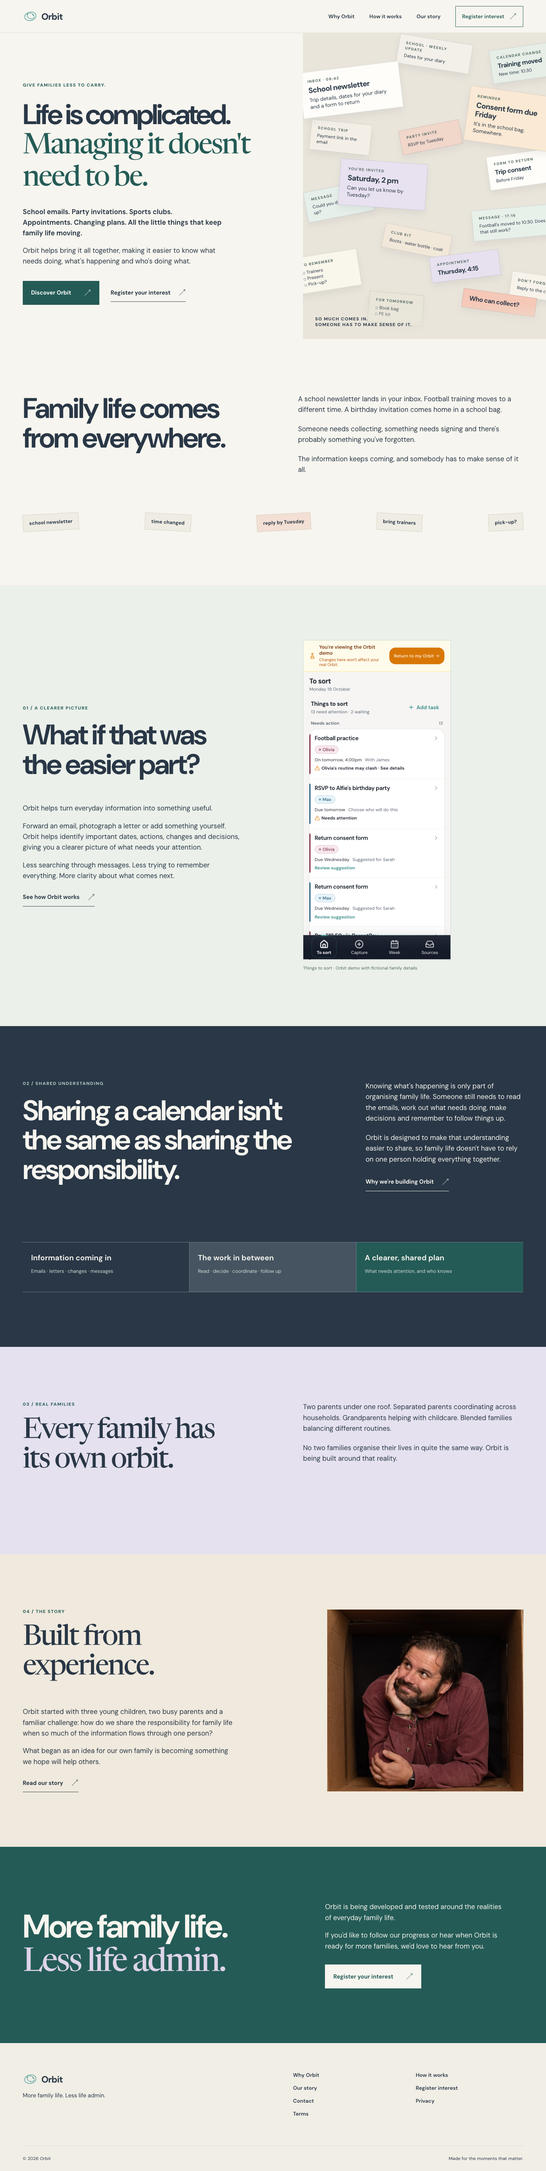
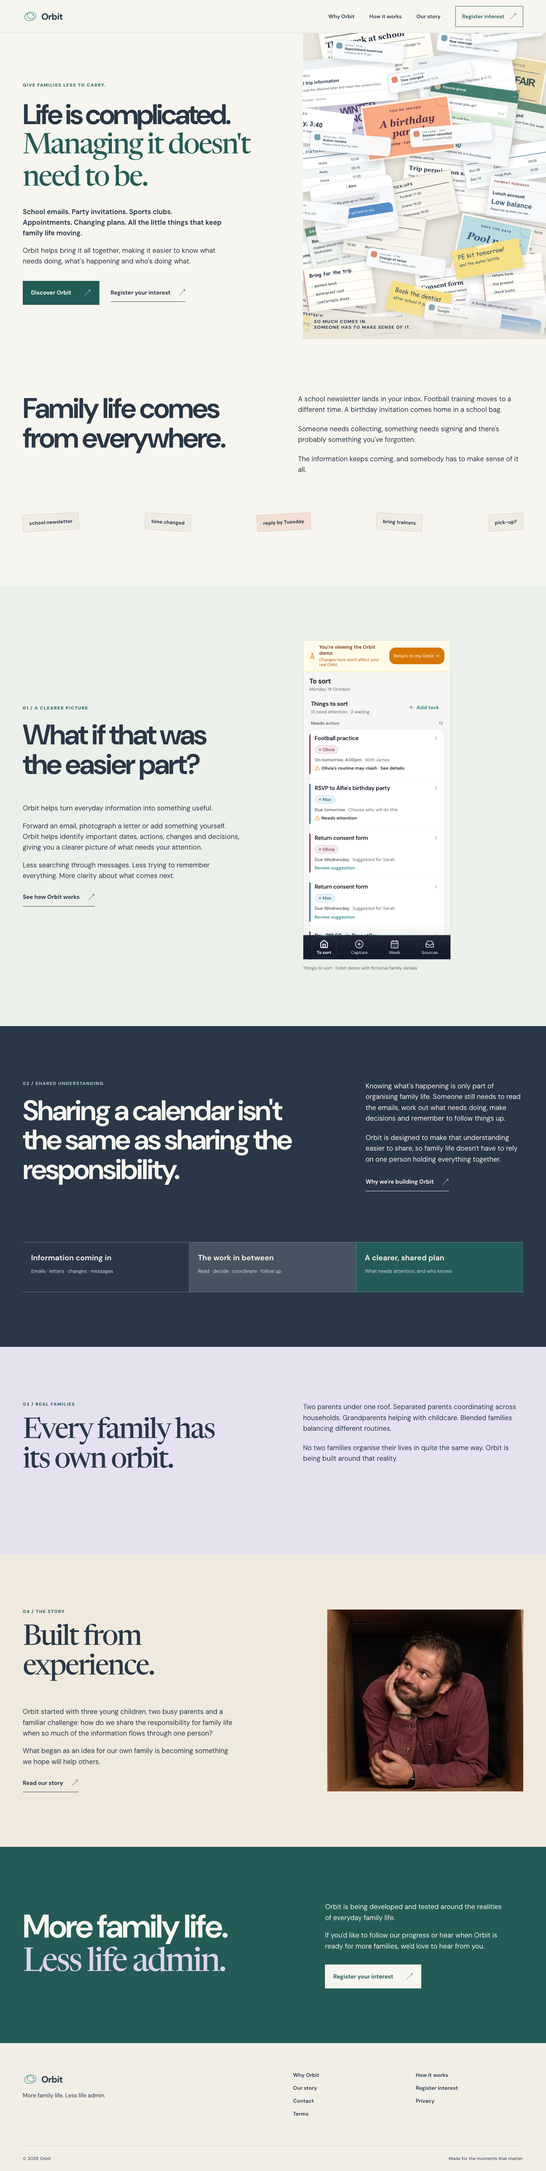
Refine homepage information collage

Changed region(s): [[0.5312, 0.0, 1.0, 0.1556]]

diff --git a/src/styles.css b/src/styles.css
@@ -1,58 +1,27 @@
 @font-face{font-family:'DM Sans';src:url('./fonts/dm-sans.woff2') format('woff2');font-style:normal;font-weight:100 900;font-display:swap}
 @font-face{font-family:Newsreader;src:url('./fonts/newsreader.ttf') format('truetype');font-style:normal;font-weight:200 900;font-display:swap}
 :root{--ivory:#F7F5EF;--teal:#245B56;--lavender:#CEC8E3;--coral:#E38D77;--ink:#293746;--cream:#FFFDF8;--line:#D9DBD4;--max:1320px;--font-body:'DM Sans',Arial,sans-serif;--font-display:Newsreader,Georgia,serif;--heading-sans-weight:650;--heading-editorial-weight:460;--heading-tracking:-.045em;--heading-editorial-tracking:-.05em}
-*{box-sizing:border-box}html{scroll-behavior:smooth}body{margin:0;background:var(--ivory);color:var(--ink);font-family:var(--font-body);-webkit-font-smoothing:antialiased}a{color:inherit;text-decoration:none}button{font:inherit}img{display:block;max-width:100%;height:auto}svg{display:block}p{line-height:1.58}h1,h2,h3,p{margin-top:0}h1,h2,h3{letter-spacing:var(--heading-tracking)}h1{font-weight:var(--heading-sans-weight)}h2{font-weight:600}.heading-sans,.heading-mixed{font-family:var(--font-body);font-weight:var(--heading-sans-weight)}.heading-editorial{font-family:var(--font-display);font-weight:var(--heading-editorial-weight);letter-spacing:var(--heading-editorial-tracking)}.heading-mixed em{font-family:var(--font-display);font-style:normal;font-weight:var(--heading-editorial-weight);letter-spacing:var(--heading-editorial-tracking)}.wrap{width:min(calc(100% - 96px),var(--max));margin-inline:auto}.skip-link{position:absolute;left:12px;top:-60px;z-index:100;background:var(--ink);color:white;padding:12px 18px}.skip-link:focus{top:12px}:focus-visible{outline:3px solid var(--coral);outline-offset:4px}a,button{touch-action:manipulation}.site-header{position:relative;z-index:20;background:var(--ivory);border-bottom:1px solid rgba(41,55,70,.12)}.nav-shell{min-height:86px;display:flex;align-items:center;justify-content:space-between;gap:24px}.brand{display:inline-flex;align-items:center;gap:9px;font-size:24px;font-weight:700;letter-spacing:-.04em;color:var(--ink);white-space:nowrap}.brand svg{width:40px;height:40px;color:#2F8E88}.brand ellipse{fill:none;stroke:currentColor;stroke-width:3.2}.brand ellipse:nth-child(2){stroke-width:2.6}.brand circle{fill:currentColor}.desktop-nav{display:flex;align-items:center;gap:clamp(18px,2.7vw,42px);font-size:14px;font-weight:600}.desktop-nav a:not(.nav-register){padding:12px 0}.desktop-nav a:hover,.site-footer nav a:hover,.text-link:hover{color:var(--teal)}.desktop-nav a[aria-current=page],.mobile-menu a[aria-current=page]{text-decoration:underline;text-decoration-thickness:2px;text-underline-offset:7px}.nav-register{display:inline-flex;align-items:center;gap:14px;border:1px solid var(--teal);padding:13px 17px;color:var(--teal);white-space:nowrap}.nav-register:hover{background:var(--teal);color:white}.menu-toggle{display:none;background:none;border:0;color:var(--ink);min-height:48px;padding:8px;cursor:pointer}.menu-lines{display:grid;gap:5px}.menu-lines i{display:block;width:22px;height:1.5px;background:currentColor}.mobile-menu[hidden]{display:none}.mobile-menu{display:none}.kicker,.section-index{font-size:12px;line-height:1.3;font-weight:750;letter-spacing:.12em;text-transform:uppercase}.kicker{color:var(--teal);margin-bottom:32px}.section-index{color:var(--teal);margin-bottom:24px}.hero{min-height:730px;display:grid;grid-template-columns:minmax(0,1.1fr) minmax(0,.9fr);align-items:stretch;gap:2vw}.hero-copy{padding:clamp(76px,9vw,136px) 0 90px;position:relative;z-index:2}.hero h1{font-size:clamp(57px,5.2vw,84px);line-height:1.025;max-width:890px;margin-bottom:35px;letter-spacing:-.065em}.hero h1 span{white-space:nowrap}.hero h1 em{color:var(--teal)}.hero-copy>p:not(.kicker){max-width:525px;font-size:18px;line-height:1.55}.hero-copy .hero-lead{font-weight:650}.actions{display:flex;align-items:center;gap:30px;flex-wrap:wrap;margin-top:37px}.button{display:inline-flex;justify-content:space-between;align-items:center;gap:34px;background:var(--teal);color:white;padding:18px 22px;min-height:56px;font-size:15px;font-weight:700;transition:background .2s ease}.button:hover{background:#194641;color:white}.text-link{display:inline-flex;align-items:center;gap:22px;padding-block:10px;border-bottom:1px solid currentColor;font-size:15px;font-weight:700;min-height:44px}.button span,.text-link span,.nav-register span{font-size:18px;font-weight:400}.hero-art{position:relative;min-height:650px;margin-right:calc((min(100vw - 96px,var(--max)) - 100vw)/2);background:#EAE5DB;overflow:hidden}.hero-art:after{content:'';position:absolute;inset:auto 0 0;height:95px;background:linear-gradient(transparent,#EAE5DB);pointer-events:none}.fragments{position:absolute;inset:0;isolation:isolate}.fragment{position:absolute;display:flex;flex-direction:column;gap:8px;padding:20px 22px;background:#FFFDF9;color:var(--ink);border:1px solid rgba(41,55,70,.16);box-shadow:0 14px 22px rgba(41,55,70,.08);font-size:15px;line-height:1.35}.fragment strong{font-size:20px;line-height:1.15;letter-spacing:-.04em}.fragment small{font-size:10px;font-weight:750;letter-spacing:.14em;color:#526762}.hero-art-caption{position:absolute;bottom:30px;left:32px;z-index:7;color:var(--ink);font-size:12px;line-height:1.25;font-weight:700;text-transform:uppercase;letter-spacing:.1em}.section{padding-block:clamp(95px,10vw,160px)}.section-ivory{background:var(--ivory)}.section-calm{background:#EBF0EA}.section-ink{background:var(--ink);color:#F7F5EF}.section-lavender{background:#E5E1EF}.editorial-grid,.reading-grid{display:grid;grid-template-columns:1fr 1fr;gap:10%;align-items:start}.section h2{font-size:clamp(46px,5.2vw,78px);line-height:1.04}.prose{font-size:18px;max-width:650px}.prose p{margin-bottom:22px}.fragment-line{display:flex;justify-content:space-between;gap:10px;flex-wrap:wrap;margin-top:80px}.fragment-line span{font-size:13px;font-weight:700;background:#EFECE3;border:1px solid #D6D2C7;padding:13px 16px;transform:rotate(-3deg)}.fragment-line span:nth-child(even){transform:rotate(3deg)}.fragment-line span:nth-child(3){background:#F3DFD4}.calm-grid{display:grid;grid-template-columns:1fr 1fr;gap:12%;align-items:center}.calm-copy{max-width:600px}.calm-copy>p:not(.section-index){font-size:18px;line-height:1.58}.product-slot{min-height:470px;background:#F7F5EF;border:1px dashed #8EADA4;display:flex;flex-direction:column;align-items:center;justify-content:center;text-align:center;padding:50px;max-width:480px;margin-inline:auto;color:#476861}.product-slot .slot-mark{font-size:80px;font-family:Newsreader;line-height:1;color:var(--teal)}.product-slot span{font-weight:750;font-size:19px}.product-slot p{max-width:260px;font-size:14px;margin-top:15px}.responsibility-grid{display:grid;grid-template-columns:1.3fr .7fr;gap:10%}.section-ink .section-index{color:#B6CFC7}.section-ink .text-link:hover{color:#D9CDEB}.responsibility-visual{display:grid;grid-template-columns:1fr 1fr 1fr;gap:0;margin-top:90px;border-top:1px solid #71818A;border-bottom:1px solid #71818A}.responsibility-visual>div{padding:28px 22px 30px;min-height:130px;font-size:20px;line-height:1.2;font-weight:650}.responsibility-visual>div:not(:last-child){border-right:1px solid #71818A}.responsibility-visual span{display:block;font-size:13px;font-weight:400;margin-top:15px;line-height:1.4;color:#D4DBD9}.visual-work{background:#455460}.visual-outcome{background:var(--teal)}.family-grid{display:grid;grid-template-columns:1fr 1fr;gap:12%}.story-teaser{background:#F0E9DD}.story-teaser-grid{display:grid;grid-template-columns:1.1fr .9fr;gap:13%;align-items:center}.photo-link{display:block;max-width:530px;overflow:hidden}.photo-link img{width:100%;object-fit:cover;aspect-ratio:1.08}.story-teaser-grid p:not(.section-index){font-size:18px;max-width:570px}.closing{padding-block:clamp(100px,10vw,155px);background:var(--teal);color:#F7F5EF}.closing-grid{display:grid;grid-template-columns:1.1fr .9fr;gap:12%;align-items:center}.closing h2{font-size:clamp(55px,6vw,92px);line-height:1.02;margin:0}.closing h2 em{color:#DDD4E9}.closing p{font-size:18px;max-width:480px}.closing .button{background:var(--ivory);color:var(--teal);margin-top:16px}.closing .button:hover{background:white}.site-footer{background:#F1EEE6;padding:75px 0 25px}.footer-grid{display:grid;grid-template-columns:1fr 1fr;gap:8%}.site-footer .brand{margin-bottom:12px}.site-footer p{font-size:15px}.site-footer nav{display:grid;grid-template-columns:repeat(2,minmax(0,1fr));gap:16px 40px;font-size:14px;font-weight:600}.footer-bottom{display:flex;justify-content:space-between;border-top:1px solid #D8D9D2;padding-top:25px;margin-top:75px;font-size:12px}.page-hero{padding-block:clamp(95px,10vw,150px)}.page-hero h1{font-size:clamp(62px,7vw,112px);line-height:1.02;max-width:1050px;margin-bottom:40px}.page-hero h1 em{color:var(--teal)}.page-intro{font-size:clamp(21px,2vw,27px);line-height:1.45;max-width:700px}.reading-grid h2{max-width:620px}.question-lines{display:grid;gap:0;margin:34px 0;border-top:1px solid var(--line)}.question-lines span{border-bottom:1px solid var(--line);padding:13px 0;font-weight:650}.work-diagram{display:grid;grid-template-columns:1fr 1.3fr;margin-top:70px;border-top:1px solid #B8C9BD;border-bottom:1px solid #B8C9BD}.work-diagram>div{padding:34px 38px 34px 0}.work-diagram>div+div{border-left:1px solid #B8C9BD;padding-left:38px}.diagram-label{display:block;font-size:11px;font-weight:750;letter-spacing:.11em;text-transform:uppercase;margin-bottom:24px;color:var(--teal)}.work-diagram strong{font-family:Newsreader;font-weight:500;font-size:37px;line-height:1.1}.work-diagram ul{list-style:none;padding:0;margin:0;display:grid;grid-template-columns:1fr 1fr;gap:14px 28px;font-size:17px}.work-diagram li:before{content:'↗';margin-right:10px;color:var(--teal)}.beliefs{padding:0;list-style:none;counter-reset:belief}.beliefs li{counter-increment:belief;border-top:1px solid var(--line);padding:20px 0 20px 43px;position:relative;font-weight:650}.beliefs li:before{content:'0' counter(belief);position:absolute;left:0;top:23px;color:var(--teal);font-size:12px}.beliefs li:last-child{border-bottom:1px solid var(--line)}.process-heading{margin-bottom:60px}.process-heading h2{max-width:850px}.process-grid{display:grid;grid-template-columns:1.2fr .8fr;gap:12%;align-items:start}.step{display:grid;grid-template-columns:130px 1fr;gap:25px;padding-block:36px;border-top:1px solid #B8C9BD}.step:last-child{border-bottom:1px solid #B8C9BD}.step-number{font-size:12px;font-weight:750;letter-spacing:.1em;text-transform:uppercase;color:var(--teal);padding-top:8px}.step h2{font-size:clamp(34px,3.5vw,49px);margin-bottom:15px}.step p{font-size:17px;line-height:1.6;max-width:600px}.process-aside{position:sticky;top:32px}.process-aside .product-slot{min-height:530px}.process-aside>p{font-size:13px;max-width:470px;margin:13px auto;color:#526762}.two-questions{display:grid;grid-template-columns:1.1fr .9fr;gap:0 12%}.two-questions>*{border-bottom:1px solid #71818A;padding:35px 0}.two-questions h2{font-size:clamp(40px,4.2vw,64px);margin:0}.two-questions p{font-size:18px;max-width:460px}.scenario-grid{display:grid;grid-template-columns:1fr 1fr;gap:70px 10%;margin-top:60px}.scenario-grid article{border-top:1px solid var(--line);padding-top:26px}.scenario-grid h2{font-size:clamp(35px,3vw,47px)}.scenario-grid p{font-size:17px;max-width:520px}.story-hero{display:grid;grid-template-columns:1.1fr .9fr;gap:10%;align-items:end}.story-hero h1{font-size:clamp(56px,5.4vw,84px);margin-bottom:0}.story-hero img{width:100%;max-width:550px;aspect-ratio:1.1;object-fit:cover}.story-body{max-width:740px;padding-bottom:140px;font-size:19px;line-height:1.68}.story-body .story-opening{font-size:29px;font-weight:650;line-height:1.35}.story-body h2{font-size:clamp(43px,4vw,61px);margin:90px 0 30px;line-height:1.08}.story-signoff{padding-top:45px;border-top:1px solid var(--line);margin-top:70px}.utility-page{max-width:850px;min-height:62vh}.utility-page h1{font-size:clamp(61px,7vw,104px)}.utility-page>p:not(.kicker){font-size:19px;max-width:640px}.utility-page .button{margin-top:25px}.notice{background:#E9EFEA;border-left:4px solid var(--teal);padding:26px 30px;margin-top:35px;max-width:600px}.notice strong{font-size:20px}.notice p{margin:10px 0 0;font-size:16px}
+*{box-sizing:border-box}html{scroll-behavior:smooth}body{margin:0;background:var(--ivory);color:var(--ink);font-family:var(--font-body);-webkit-font-smoothing:antialiased}a{color:inherit;text-decoration:none}button{font:inherit}img{display:block;max-width:100%;height:auto}svg{display:block}p{line-height:1.58}h1,h2,h3,p{margin-top:0}h1,h2,h3{letter-spacing:var(--heading-tracking)}h1{font-weight:var(--heading-sans-weight)}h2{font-weight:600}.heading-sans,.heading-mixed{font-family:var(--font-body);font-weight:var(--heading-sans-weight)}.heading-editorial{font-family:var(--font-display);font-weight:var(--heading-editorial-weight);letter-spacing:var(--heading-editorial-tracking)}.heading-mixed em{font-family:var(--font-display);font-style:normal;font-weight:var(--heading-editorial-weight);letter-spacing:var(--heading-editorial-tracking)}.wrap{width:min(calc(100% - 96px),var(--max));margin-inline:auto}.skip-link{position:absolute;left:12px;top:-60px;z-index:100;background:var(--ink);color:white;padding:12px 18px}.skip-link:focus{top:12px}:focus-visible{outline:3px solid var(--coral);outline-offset:4px}a,button{touch-action:manipulation}.site-header{position:relative;z-index:20;background:var(--ivory);border-bottom:1px solid rgba(41,55,70,.12)}.nav-shell{min-height:86px;display:flex;align-items:center;justify-content:space-between;gap:24px}.brand{display:inline-flex;align-items:center;gap:9px;font-size:24px;font-weight:700;letter-spacing:-.04em;color:var(--ink);white-space:nowrap}.brand svg{width:40px;height:40px;color:#2F8E88}.brand ellipse{fill:none;stroke:currentColor;stroke-width:3.2}.brand ellipse:nth-child(2){stroke-width:2.6}.brand circle{fill:currentColor}.desktop-nav{display:flex;align-items:center;gap:clamp(18px,2.7vw,42px);font-size:14px;font-weight:600}.desktop-nav a:not(.nav-register){padding:12px 0}.desktop-nav a:hover,.site-footer nav a:hover,.text-link:hover{color:var(--teal)}.desktop-nav a[aria-current=page],.mobile-menu a[aria-current=page]{text-decoration:underline;text-decoration-thickness:2px;text-underline-offset:7px}.nav-register{display:inline-flex;align-items:center;gap:14px;border:1px solid var(--teal);padding:13px 17px;color:var(--teal);white-space:nowrap}.nav-register:hover{background:var(--teal);color:white}.menu-toggle{display:none;background:none;border:0;color:var(--ink);min-height:48px;padding:8px;cursor:pointer}.menu-lines{display:grid;gap:5px}.menu-lines i{display:block;width:22px;height:1.5px;background:currentColor}.mobile-menu[hidden]{display:none}.mobile-menu{display:none}.kicker,.section-index{font-size:12px;line-height:1.3;font-weight:750;letter-spacing:.12em;text-transform:uppercase}.kicker{color:var(--teal);margin-bottom:32px}.section-index{color:var(--teal);margin-bottom:24px}.hero{min-height:730px;display:grid;grid-template-columns:minmax(0,1.1fr) minmax(0,.9fr);align-items:stretch;gap:2vw}.hero-copy{padding:clamp(76px,9vw,136px) 0 90px;position:relative;z-index:2}.hero h1{font-size:clamp(57px,5.2vw,84px);line-height:1.025;max-width:890px;margin-bottom:35px;letter-spacing:-.065em}.hero h1 span{white-space:nowrap}.hero h1 em{color:var(--teal)}.hero-copy>p:not(.kicker){max-width:525px;font-size:18px;line-height:1.55}.hero-copy .hero-lead{font-weight:650}.actions{display:flex;align-items:center;gap:30px;flex-wrap:wrap;margin-top:37px}.button{display:inline-flex;justify-content:space-between;align-items:center;gap:34px;background:var(--teal);color:white;padding:18px 22px;min-height:56px;font-size:15px;font-weight:700;transition:background .2s ease}.button:hover{background:#194641;color:white}.text-link{display:inline-flex;align-items:center;gap:22px;padding-block:10px;border-bottom:1px solid currentColor;font-size:15px;font-weight:700;min-height:44px}.button span,.text-link span,.nav-register span{font-size:18px;font-weight:400}.hero-art{position:relative;min-height:650px;margin-right:calc((min(100vw - 96px,var(--max)) - 100vw)/2);background:#EAE5DB;overflow:hidden}.hero-art:after{content:'';position:absolute;inset:auto 0 0;height:95px;background:linear-gradient(transparent,#EAE5DB);pointer-events:none}.hero-art-caption{position:absolute;bottom:30px;left:32px;z-index:7;color:var(--ink);font-size:12px;line-height:1.25;font-weight:700;text-transform:uppercase;letter-spacing:.1em}.section{padding-block:clamp(95px,10vw,160px)}.section-ivory{background:var(--ivory)}.section-calm{background:#EBF0EA}.section-ink{background:var(--ink);color:#F7F5EF}.section-lavender{background:#E5E1EF}.editorial-grid,.reading-grid{display:grid;grid-template-columns:1fr 1fr;gap:10%;align-items:start}.section h2{font-size:clamp(46px,5.2vw,78px);line-height:1.04}.prose{font-size:18px;max-width:650px}.prose p{margin-bottom:22px}.fragment-line{display:flex;justify-content:space-between;gap:10px;flex-wrap:wrap;margin-top:80px}.fragment-line span{font-size:13px;font-weight:700;background:#EFECE3;border:1px solid #D6D2C7;padding:13px 16px;transform:rotate(-3deg)}.fragment-line span:nth-child(even){transform:rotate(3deg)}.fragment-line span:nth-child(3){background:#F3DFD4}.calm-grid{display:grid;grid-template-columns:1fr 1fr;gap:12%;align-items:center}.calm-copy{max-width:600px}.calm-copy>p:not(.section-index){font-size:18px;line-height:1.58}.product-slot{min-height:470px;background:#F7F5EF;border:1px dashed #8EADA4;display:flex;flex-direction:column;align-items:center;justify-content:center;text-align:center;padding:50px;max-width:480px;margin-inline:auto;color:#476861}.product-slot .slot-mark{font-size:80px;font-family:Newsreader;line-height:1;color:var(--teal)}.product-slot span{font-weight:750;font-size:19px}.product-slot p{max-width:260px;font-size:14px;margin-top:15px}.responsibility-grid{display:grid;grid-template-columns:1.3fr .7fr;gap:10%}.section-ink .section-index{color:#B6CFC7}.section-ink .text-link:hover{color:#D9CDEB}.responsibility-visual{display:grid;grid-template-columns:1fr 1fr 1fr;gap:0;margin-top:90px;border-top:1px solid #71818A;border-bottom:1px solid #71818A}.responsibility-visual>div{padding:28px 22px 30px;min-height:130px;font-size:20px;line-height:1.2;font-weight:650}.responsibility-visual>div:not(:last-child){border-right:1px solid #71818A}.responsibility-visual span{display:block;font-size:13px;font-weight:400;margin-top:15px;line-height:1.4;color:#D4DBD9}.visual-work{background:#455460}.visual-outcome{background:var(--teal)}.family-grid{display:grid;grid-template-columns:1fr 1fr;gap:12%}.story-teaser{background:#F0E9DD}.story-teaser-grid{display:grid;grid-template-columns:1.1fr .9fr;gap:13%;align-items:center}.photo-link{display:block;max-width:530px;overflow:hidden}.photo-link img{width:100%;object-fit:cover;aspect-ratio:1.08}.story-teaser-grid p:not(.section-index){font-size:18px;max-width:570px}.closing{padding-block:clamp(100px,10vw,155px);background:var(--teal);color:#F7F5EF}.closing-grid{display:grid;grid-template-columns:1.1fr .9fr;gap:12%;align-items:center}.closing h2{font-size:clamp(55px,6vw,92px);line-height:1.02;margin:0}.closing h2 em{color:#DDD4E9}.closing p{font-size:18px;max-width:480px}.closing .button{background:var(--ivory);color:var(--teal);margin-top:16px}.closing .button:hover{background:white}.site-footer{background:#F1EEE6;padding:75px 0 25px}.footer-grid{display:grid;grid-template-columns:1fr 1fr;gap:8%}.site-footer .brand{margin-bottom:12px}.site-footer p{font-size:15px}.site-footer nav{display:grid;grid-template-columns:repeat(2,minmax(0,1fr));gap:16px 40px;font-size:14px;font-weight:600}.footer-bottom{display:flex;justify-content:space-between;border-top:1px solid #D8D9D2;padding-top:25px;margin-top:75px;font-size:12px}.page-hero{padding-block:clamp(95px,10vw,150px)}.page-hero h1{font-size:clamp(62px,7vw,112px);line-height:1.02;max-width:1050px;margin-bottom:40px}.page-hero h1 em{color:var(--teal)}.page-intro{font-size:clamp(21px,2vw,27px);line-height:1.45;max-width:700px}.reading-grid h2{max-width:620px}.question-lines{display:grid;gap:0;margin:34px 0;border-top:1px solid var(--line)}.question-lines span{border-bottom:1px solid var(--line);padding:13px 0;font-weight:650}.work-diagram{display:grid;grid-template-columns:1fr 1.3fr;margin-top:70px;border-top:1px solid #B8C9BD;border-bottom:1px solid #B8C9BD}.work-diagram>div{padding:34px 38px 34px 0}.work-diagram>div+div{border-left:1px solid #B8C9BD;padding-left:38px}.diagram-label{display:block;font-size:11px;font-weight:750;letter-spacing:.11em;text-transform:uppercase;margin-bottom:24px;color:var(--teal)}.work-diagram strong{font-family:Newsreader;font-weight:500;font-size:37px;line-height:1.1}.work-diagram ul{list-style:none;padding:0;margin:0;display:grid;grid-template-columns:1fr 1fr;gap:14px 28px;font-size:17px}.work-diagram li:before{content:'↗';margin-right:10px;color:var(--teal)}.beliefs{padding:0;list-style:none;counter-reset:belief}.beliefs li{counter-increment:belief;border-top:1px solid var(--line);padding:20px 0 20px 43px;position:relative;font-weight:650}.beliefs li:before{content:'0' counter(belief);position:absolute;left:0;top:23px;color:var(--teal);font-size:12px}.beliefs li:last-child{border-bottom:1px solid var(--line)}.process-heading{margin-bottom:60px}.process-heading h2{max-width:850px}.process-grid{display:grid;grid-template-columns:1.2fr .8fr;gap:12%;align-items:start}.step{display:grid;grid-template-columns:130px 1fr;gap:25px;padding-block:36px;border-top:1px solid #B8C9BD}.step:last-child{border-bottom:1px solid #B8C9BD}.step-number{font-size:12px;font-weight:750;letter-spacing:.1em;text-transform:uppercase;color:var(--teal);padding-top:8px}.step h2{font-size:clamp(34px,3.5vw,49px);margin-bottom:15px}.step p{font-size:17px;line-height:1.6;max-width:600px}.process-aside{position:sticky;top:32px}.process-aside .product-slot{min-height:530px}.process-aside>p{font-size:13px;max-width:470px;margin:13px auto;color:#526762}.two-questions{display:grid;grid-template-columns:1.1fr .9fr;gap:0 12%}.two-questions>*{border-bottom:1px solid #71818A;padding:35px 0}.two-questions h2{font-size:clamp(40px,4.2vw,64px);margin:0}.two-questions p{font-size:18px;max-width:460px}.scenario-grid{display:grid;grid-template-columns:1fr 1fr;gap:70px 10%;margin-top:60px}.scenario-grid article{border-top:1px solid var(--line);padding-top:26px}.scenario-grid h2{font-size:clamp(35px,3vw,47px)}.scenario-grid p{font-size:17px;max-width:520px}.story-hero{display:grid;grid-template-columns:1.1fr .9fr;gap:10%;align-items:end}.story-hero h1{font-size:clamp(56px,5.4vw,84px);margin-bottom:0}.story-hero img{width:100%;max-width:550px;aspect-ratio:1.1;object-fit:cover}.story-body{max-width:740px;padding-bottom:140px;font-size:19px;line-height:1.68}.story-body .story-opening{font-size:29px;font-weight:650;line-height:1.35}.story-body h2{font-size:clamp(43px,4vw,61px);margin:90px 0 30px;line-height:1.08}.story-signoff{padding-top:45px;border-top:1px solid var(--line);margin-top:70px}.utility-page{max-width:850px;min-height:62vh}.utility-page h1{font-size:clamp(61px,7vw,104px)}.utility-page>p:not(.kicker){font-size:19px;max-width:640px}.utility-page .button{margin-top:25px}.notice{background:#E9EFEA;border-left:4px solid var(--teal);padding:26px 30px;margin-top:35px;max-width:600px}.notice strong{font-size:20px}.notice p{margin:10px 0 0;font-size:16px}
 @media(max-width:1100px){.wrap{width:min(calc(100% - 64px),var(--max))}.desktop-nav{gap:18px}.hero{grid-template-columns:1fr .85fr}.hero h1{font-size:clamp(55px,5.8vw,76px)}.hero h1 span{white-space:normal}.hero-art{margin-right:-32px}}
 @media(max-width:850px){.desktop-nav{display:none}.menu-toggle{display:flex;align-items:center;gap:13px}.mobile-menu{display:grid;position:absolute;top:100%;left:0;right:0;background:var(--ivory);border-bottom:1px solid var(--line);padding:10px 32px 26px;box-shadow:0 16px 24px rgba(41,55,70,.08)}.mobile-menu a{display:flex;align-items:center;min-height:52px;border-bottom:1px solid var(--line);font-size:18px;font-weight:650}.mobile-menu .nav-register{justify-content:space-between;border:1px solid var(--teal);margin-top:17px;min-height:54px;padding-inline:18px;color:var(--teal)}.hero{display:block}.hero-copy{padding:82px 0 55px}.hero h1{max-width:760px}.hero-art{margin-inline:-32px;min-height:510px}.editorial-grid,.reading-grid,.calm-grid,.family-grid,.story-teaser-grid,.closing-grid,.responsibility-grid,.process-grid,.story-hero{grid-template-columns:1fr;gap:38px}.section h2{margin-bottom:5px}.process-aside{position:static}.product-slot{margin-inline:0}.story-teaser .photo-link{max-width:480px}.story-hero img{max-width:530px}.two-questions{grid-template-columns:1fr 1fr;gap:0 7%}.page-hero h1{font-size:clamp(55px,8vw,85px)}.footer-grid{gap:30px}}
-@media(max-width:600px){.wrap{width:calc(100% - 40px)}.nav-shell{min-height:70px}.brand{font-size:22px}.brand svg{width:36px;height:36px}.mobile-menu{padding-inline:20px}.hero-copy{padding:69px 0 50px}.kicker{margin-bottom:23px}.hero h1{font-size:clamp(47px,12vw,66px);line-height:1.02;margin-bottom:29px}.hero-copy>p:not(.kicker){font-size:17px}.actions{gap:12px;align-items:flex-start;flex-direction:column;margin-top:28px}.hero-art{margin-inline:-20px;min-height:475px}.fragment{padding:13px 15px;gap:5px;font-size:12px}.fragment strong{font-size:16px}.fragment small{font-size:8px}.hero-art-caption{left:20px;bottom:19px;font-size:9px}.section{padding-block:85px}.section h2{font-size:clamp(43px,11vw,58px)}.prose,.calm-copy>p:not(.section-index),.story-teaser-grid p:not(.section-index){font-size:17px}.fragment-line{margin-top:45px;justify-content:flex-start}.fragment-line span{font-size:11px;padding:9px 11px}.responsibility-visual{display:block;margin-top:50px}.responsibility-visual>div{min-height:100px;padding:22px 0}.responsibility-visual>div:not(:last-child){border-right:0;border-bottom:1px solid #71818A}.responsibility-visual .visual-work,.responsibility-visual .visual-outcome{padding-inline:20px}.product-slot{min-height:360px;padding:25px}.closing h2{font-size:clamp(52px,12vw,72px)}.closing p{font-size:17px}.site-footer{padding-top:60px}.footer-grid{grid-template-columns:1fr}.site-footer nav{gap:8px 25px}.footer-bottom{margin-top:65px;gap:20px;flex-direction:column}.page-hero{padding-block:80px}.page-hero h1{font-size:clamp(49px,11.5vw,66px);margin-bottom:27px}.page-intro{font-size:20px}.reading-grid{gap:24px}.work-diagram{grid-template-columns:1fr}.work-diagram>div{padding:25px 0}.work-diagram>div+div{border-left:0;border-top:1px solid #B8C9BD;padding-left:0}.work-diagram ul{grid-template-columns:1fr;gap:12px}.step{grid-template-columns:1fr;gap:13px;padding-block:28px}.step h2{font-size:39px}.step p{font-size:16px}.two-questions{display:block}.two-questions h2{border-bottom:0;padding-bottom:0}.two-questions div{padding-top:7px}.scenario-grid{grid-template-columns:1fr;gap:45px;margin-top:35px}.story-hero{gap:40px}.story-body{font-size:18px;padding-bottom:90px}.story-body h2{margin-top:70px}.story-body .story-opening{font-size:26px}.utility-page>p:not(.kicker){font-size:17px}}
+@media(max-width:600px){.wrap{width:calc(100% - 40px)}.nav-shell{min-height:70px}.brand{font-size:22px}.brand svg{width:36px;height:36px}.mobile-menu{padding-inline:20px}.hero-copy{padding:69px 0 50px}.kicker{margin-bottom:23px}.hero h1{font-size:clamp(47px,12vw,66px);line-height:1.02;margin-bottom:29px}.hero-copy>p:not(.kicker){font-size:17px}.actions{gap:12px;align-items:flex-start;flex-direction:column;margin-top:28px}.hero-art{margin-inline:-20px;min-height:475px}.hero-art-caption{left:20px;bottom:19px;font-size:9px}.section{padding-block:85px}.section h2{font-size:clamp(43px,11vw,58px)}.prose,.calm-copy>p:not(.section-index),.story-teaser-grid p:not(.section-index){font-size:17px}.fragment-line{margin-top:45px;justify-content:flex-start}.fragment-line span{font-size:11px;padding:9px 11px}.responsibility-visual{display:block;margin-top:50px}.responsibility-visual>div{min-height:100px;padding:22px 0}.responsibility-visual>div:not(:last-child){border-right:0;border-bottom:1px solid #71818A}.responsibility-visual .visual-work,.responsibility-visual .visual-outcome{padding-inline:20px}.product-slot{min-height:360px;padding:25px}.closing h2{font-size:clamp(52px,12vw,72px)}.closing p{font-size:17px}.site-footer{padding-top:60px}.footer-grid{grid-template-columns:1fr}.site-footer nav{gap:8px 25px}.footer-bottom{margin-top:65px;gap:20px;flex-direction:column}.page-hero{padding-block:80px}.page-hero h1{font-size:clamp(49px,11.5vw,66px);margin-bottom:27px}.page-intro{font-size:20px}.reading-grid{gap:24px}.work-diagram{grid-template-columns:1fr}.work-diagram>div{padding:25px 0}.work-diagram>div+div{border-left:0;border-top:1px solid #B8C9BD;padding-left:0}.work-diagram ul{grid-template-columns:1fr;gap:12px}.step{grid-template-columns:1fr;gap:13px;padding-block:28px}.step h2{font-size:39px}.step p{font-size:16px}.two-questions{display:block}.two-questions h2{border-bottom:0;padding-bottom:0}.two-questions div{padding-top:7px}.scenario-grid{grid-template-columns:1fr;gap:45px;margin-top:35px}.story-hero{gap:40px}.story-body{font-size:18px;padding-bottom:90px}.story-body h2{margin-top:70px}.story-body .story-opening{font-size:26px}.utility-page>p:not(.kicker){font-size:17px}}
 @media(prefers-reduced-motion:reduce){html{scroll-behavior:auto}*,*:before,*:after{animation-duration:.01ms!important;transition-duration:.01ms!important}}
 .product-image{margin:0;max-width:390px}.product-image img{width:100%;height:auto;border:1px solid #CBD6D1}.product-image figcaption,.screenshot-strip figcaption{font-size:12px;line-height:1.4;color:#526762;margin-top:13px}.screenshot-strip{display:grid;grid-template-columns:1fr 1fr;gap:9%;margin-top:100px}.screenshot-strip figure{margin:0;max-width:390px}.screenshot-strip img{width:100%;height:auto;border:1px solid #CBD6D1}@media(max-width:600px){.screenshot-strip{grid-template-columns:1fr;gap:35px;margin-top:60px}.screenshot-strip figure{max-width:320px}}@media(min-width:601px) and (max-width:850px){.screenshot-strip{margin-top:60px}}
 
-/* Hero information fragments: one deliberately dense cluster, recomposed for small screens. */
-.fragment{padding:14px 17px;gap:5px;font-size:12px;box-shadow:0 10px 18px rgba(41,55,70,.075)}
-.fragment strong{font-size:17px}
-.fragment-email,.fragment-note,.fragment-party{padding:18px 20px;font-size:14px}
-.fragment-email strong,.fragment-note strong,.fragment-party strong{font-size:20px}
-.fragment-school{width:194px;top:2%;left:39%;transform:rotate(9deg);background:#F3F0E9;z-index:1}
-.fragment-email{width:265px;top:11%;left:-1%;transform:rotate(-7deg);z-index:7}
-.fragment-calendar{width:204px;top:4%;right:-9%;transform:rotate(-8deg);background:#E6EEE7;z-index:2}
-.fragment-note{width:228px;top:19%;right:-3%;transform:rotate(8deg);background:#FAE9D4;z-index:8}
-.fragment-payment{width:160px;top:29%;left:3%;transform:rotate(6deg);background:#F3EFE7;z-index:2}
-.fragment-rsvp{width:162px;top:30%;left:40%;transform:rotate(-11deg);background:#F1D6CA;z-index:5}
-.fragment-party{width:230px;top:42%;left:15%;transform:rotate(4deg);background:#E8E2F0;z-index:9}
-.fragment-form{width:185px;top:39%;right:-5%;transform:rotate(-8deg);background:#FFFDF9;z-index:3}
-.fragment-pickup{width:178px;top:50%;left:1%;transform:rotate(-11deg);background:#E7EFEA;z-index:6}
-.fragment-chat{width:220px;top:57%;right:-4%;transform:rotate(-5deg);background:#E8F0EA;z-index:10}
-.fragment-kit{width:179px;top:64%;left:33%;transform:rotate(11deg);background:#F2E8DA;z-index:4}
-.fragment-list{width:168px;top:72%;left:-3%;transform:rotate(-9deg);background:#F9F6EC;z-index:8}
-.fragment-appointment{width:183px;top:72%;right:19%;transform:rotate(-7deg);background:#E7E1EF;z-index:6}
-.fragment-reply{width:158px;top:79%;right:-10%;transform:rotate(8deg);background:#F7F3EA;z-index:4}
-.fragment-bag{width:144px;top:85%;left:27%;transform:rotate(5deg);background:#E9E6D9;z-index:3}
-.fragment-slip{width:195px;top:85%;right:4%;transform:rotate(8deg);background:#F5C8B7;z-index:11}
-.fragment-slip strong{font-size:17px}
-.hero-art-caption{z-index:20}
-@media(max-width:850px){
-  .fragment-email{left:10%}.fragment-note{right:8%}.fragment-party{left:27%}.fragment-chat{right:8%}
-  .fragment-list{left:7%}.fragment-slip{right:16%}.fragment-school{left:44%}.fragment-calendar{right:-2%}
-  .fragment-pickup{left:3%}.fragment-form{right:1%}.fragment-appointment{right:18%}
-}
-@media(max-width:600px){
-  .hero-art{min-height:560px}
-  .fragment{padding:10px 12px;gap:4px;font-size:11px}
-  .fragment strong{font-size:14px}.fragment small{font-size:8px}
-  .fragment-school,.fragment-calendar,.fragment-appointment,.fragment-payment{display:none}
-  .fragment-email{width:190px;top:4%;left:-6%}
-  .fragment-note{width:171px;top:13%;right:-3%}
-  .fragment-rsvp{width:130px;top:27%;left:36%}
-  .fragment-party{width:174px;top:35%;left:8%}
-  .fragment-form{width:146px;top:35%;right:-4%}
-  .fragment-pickup{width:143px;top:49%;left:-6%}
-  .fragment-chat{width:170px;top:54%;right:-5%}
-  .fragment-kit{width:151px;top:63%;left:28%}
-  .fragment-list{width:127px;top:72%;left:-4%}
-  .fragment-bag{width:124px;top:76%;left:35%}
-  .fragment-reply{width:132px;top:67%;right:-10%}
-  .fragment-slip{width:142px;top:83%;right:-3%}
-  .fragment-slip strong{font-size:14px}
-  .hero-art-caption{bottom:16px;left:16px;max-width:138px}
-}
+.incoming-collage{position:absolute;inset:0;isolation:isolate;overflow:hidden}
+.incoming{position:absolute;left:var(--x);top:var(--y);width:var(--w);z-index:var(--z);transform:rotate(var(--r));box-sizing:border-box;color:#293746;font:11px/1.35 Arial,Helvetica,sans-serif;box-shadow:0 7px 20px rgba(33,42,51,.17);overflow:hidden}
+.incoming p{margin:0;line-height:1.35}.incoming strong{display:block;font-weight:700}.incoming small{font-size:9px}.incoming span{display:block}.incoming-email{background:#fff;border:1px solid #d9dee1;padding:0 12px 12px}.mail-bar{height:24px;margin:0 -12px 10px;padding:5px 10px;background:#edf1f3;color:#5d6870;display:flex;justify-content:space-between;font-size:9px}.mail-from{font-size:9px;color:#63717c;margin-bottom:5px}.incoming-email strong{font-size:12px;margin-bottom:5px}.incoming-email p{font-size:9px;color:#58616a}.mail-actions{border-top:1px solid #e1e5e6;margin-top:9px;padding-top:6px;font-size:8px;color:#66808e}
+.incoming-newsletter{background:#fffdf6;border:1px solid #d8d4c9;padding:12px 14px 15px;font-family:Georgia,serif;min-height:192px}.newsletter-mast{font:bold 8px/1.2 Arial,sans-serif;letter-spacing:.11em;border-bottom:3px double #394b55;padding-bottom:7px;margin-bottom:9px;display:flex;justify-content:space-between}.newsletter-mast span{font-weight:400;letter-spacing:0}.incoming-newsletter strong{font-size:21px;line-height:1.03;margin-bottom:7px}.newsletter-rule{height:1px;background:#72818a;margin-bottom:7px}.incoming-newsletter p{font-size:10px;line-height:1.38}.newsletter-columns{display:grid;grid-template-columns:1fr 1fr;gap:9px;border-top:1px solid #b1b6b4;margin-top:12px;padding-top:8px;font:8px/1.4 Arial,sans-serif}.incoming-inner{background:#f4f0e8}
+.incoming-chat{background:#e7efe7;border:1px solid #acc2b9;border-radius:11px;padding:0 8px 10px}.chat-head{margin:0 -8px 10px;padding:7px 8px;background:#457d70;color:white;display:flex;align-items:center;gap:6px;font-size:9px}.chat-head strong{flex:1}.chat-avatar{width:17px;height:17px;border-radius:50%;background:#d7ba9e}.chat-bubble{background:white;border-radius:6px 6px 6px 1px;padding:6px 7px;margin:5px 16px 5px 0;font-size:9px;box-shadow:0 1px 2px #0001}.chat-bubble.outgoing{background:#d6ebd4;margin:5px 0 5px 17px;border-radius:6px 6px 1px 6px}.chat-bubble small{display:block;text-align:right;color:#81928d;font-size:7px}
+.incoming-sms{background:#f6f7f8;border:1px solid #dfe3e6;border-radius:16px;padding:0 9px 9px;min-height:151px}.sms-head{margin:0 -9px 11px;padding:7px 10px;background:#fff;text-align:center;color:#307cb7;border-bottom:1px solid #e3e7e9}.sms-head strong{display:inline;color:#344353;font-size:10px}.sms-bubble{background:#e4e5e9;border-radius:12px 12px 12px 3px;padding:7px 8px;margin:5px 29px 5px 0;font-size:9px}.sms-bubble.sent{background:#548ec7;color:#fff;margin:5px 0 5px 27px;border-radius:12px 12px 3px 12px}.sms-entry{border:1px solid #d4dadf;border-radius:10px;padding:4px 7px;margin-top:10px;color:#a3aeb7;font-size:8px;background:white}
+.incoming-invite{min-height:147px;padding:14px 13px;background:#f9ab85;color:#5c3047;border:5px solid #fff7ed;text-align:center;font-family:Georgia,serif}.incoming-invite small{display:block;letter-spacing:.18em;font:700 8px Arial,sans-serif}.incoming-invite strong{font-style:italic;font-size:26px;line-height:1.02;margin:14px 0 10px}.incoming-invite span{font:700 9px Arial,sans-serif}.incoming-invite i{position:absolute;border:1px dashed currentColor;width:38px;height:38px;border-radius:50%;right:-8px;top:-13px;opacity:.55}.incoming-pool{background:#b9dbe1;color:#315679}
+.incoming-flyer{background:#e9d8a8;border:4px solid #fcf8e9;padding:14px 12px 10px;text-align:center;min-height:139px;color:#3c4d57}.incoming-flyer small{display:block;font-size:8px;letter-spacing:.18em;border-bottom:1px solid currentColor;padding-bottom:6px}.incoming-flyer strong{font:900 27px/.92 Arial,sans-serif;letter-spacing:-.07em;margin:14px 0 8px}.incoming-flyer span{font-size:9px;font-weight:700}.flyer-footer{border-top:1px solid currentColor;font-size:7px;letter-spacing:.08em;margin-top:12px;padding-top:6px}.incoming-concert{background:#d9d1e7;color:#554870}.incoming-club-flyer{background:#b9d2bb;color:#395849}
+.incoming-fixture{background:#fff;border:1px solid #b7c9d1;padding:9px 10px 11px}.fixture-head{font-weight:800;font-size:10px;letter-spacing:.09em;color:#3c6173;border-bottom:2px solid #7396a5;padding-bottom:7px;margin-bottom:6px}.incoming-fixture table{width:100%;border-collapse:collapse;font-size:9px}.incoming-fixture td{border-bottom:1px solid #d8e0e3;padding:5px 3px}.incoming-fixture tr:nth-child(even){background:#f0f5f6}
+.incoming-appointment{background:#fff;border-left:5px solid #5caaa1;padding:11px 13px;min-height:91px}.incoming-appointment small{display:block;color:#407f78;font-size:8px;letter-spacing:.12em;font-weight:700}.incoming-appointment strong{font-size:17px;margin:7px 0 2px}.incoming-appointment span{font-size:9px}.appointment-line{height:1px;background:#d4e4e1;margin-top:10px}
+.incoming-schedule{background:#f7f4ec;border:1px solid #b8b3a7;padding:9px 10px 11px}.schedule-head{font-weight:800;font-size:10px;letter-spacing:.08em;padding-bottom:7px;border-bottom:2px solid #7b8587}.schedule-row{display:grid;grid-template-columns:42px 1fr;gap:6px;border-bottom:1px dotted #9ea7a8;padding:6px 0;font-size:9px}.schedule-row b{color:#527780}
+.incoming-form{background:#fffdfa;border:1px solid #d4cec1;padding:10px 12px 13px;min-height:145px}.form-head{display:flex;justify-content:space-between;gap:6px;border-bottom:1px solid #737e81;padding-bottom:5px;font-size:7px;font-weight:800;letter-spacing:.07em}.form-head span{color:#9d514e}.incoming-form strong{font:700 16px/1.08 Georgia,serif;margin:10px 0 5px}.incoming-form p{font-size:9px}.form-check{border:1px solid #b9bdba;padding:5px;margin-top:9px;font-size:8px}.signature{font:italic 10px Georgia,serif;margin-top:10px}.incoming-small{min-height:126px}
+.incoming-payment{background:#f7f8fa;border:1px solid #d2dadd;padding-top:9px}.payment-head{font-size:8px;letter-spacing:.09em;color:#9b5652;border-bottom:1px solid #d4dadd;padding:0 10px 7px;font-weight:800}.incoming-payment strong{font-size:12px;padding:8px 10px 0}.incoming-payment span{font-size:18px;font-weight:800;color:#3c6173;padding:3px 10px}.incoming-payment p{font-size:8px;padding:0 10px 11px}
+.incoming-notification{display:flex;gap:7px;align-items:flex-start;background:rgba(249,251,252,.96);border:1px solid #d5dfe5;border-radius:9px;padding:7px 9px;min-height:51px;box-shadow:0 6px 13px #26374628}.notification-dot{flex:none;width:16px;height:16px;border-radius:5px;background:#79a5b2}.incoming-notification small{display:block;font-size:7px;color:#667681;margin-bottom:1px}.incoming-notification strong{font-size:9px;line-height:1.1}.incoming-notification span{font-size:8px;color:#65737a}.incoming-urgent .notification-dot,.incoming-changed .notification-dot{background:#d98e6f}
+.incoming-hand{background:#f6df85;padding:12px 14px 17px;min-height:77px;box-shadow:2px 8px 12px #33433e30;font-family:'Comic Sans MS','Bradley Hand',cursive;color:#3c4d65}.incoming-hand:before{content:'';position:absolute;top:0;left:38%;width:40px;height:8px;background:#fff9;transform:rotate(-5deg)}.incoming-hand strong{font-size:16px;font-weight:500;line-height:1.1;margin-bottom:5px}.incoming-hand span{font-size:11px}.incoming-list{background:repeating-linear-gradient(#fffdf6 0 22px,#ced9db 23px,#fffdf6 24px);border-left:3px solid #d5a4a2;padding:9px 12px 12px;min-height:112px;font-family:'Comic Sans MS','Bradley Hand',cursive}.incoming-list strong{font-size:13px;margin-bottom:7px}.incoming-list span{font-size:10px;line-height:22px}.incoming-club{background:#f1f5f1;border:1px solid #bbcec1;padding:0 11px 11px}.club-head{margin:0 -11px 8px;background:#668f75;color:#fff;padding:5px 10px;font-weight:800;font-size:9px;letter-spacing:.1em}.incoming-club strong{font-size:12px;margin-bottom:4px}.incoming-club p{font-size:9px}.incoming-club small{display:block;border-top:1px solid #cddbd0;margin-top:8px;padding-top:5px;color:#73847a}
+.hero-art-caption{z-index:30;background:rgba(234,229,219,.92);padding:6px 9px;left:20px;bottom:17px}
+@media(max-width:600px){.hero-art{min-height:680px}.incoming{left:var(--mx);top:var(--my);width:var(--mw);transform:rotate(var(--mr))}.incoming.mobile-hide{display:none}.incoming-newsletter{min-height:165px}.incoming-newsletter strong{font-size:18px}.incoming-invite{min-height:129px}.incoming-invite strong{font-size:22px}.incoming-chat{font-size:9px}.incoming-notification{padding:6px 7px;min-height:44px}.hero-art-caption{z-index:30}}

diff --git a/docs/creative-direction.md b/docs/creative-direction.md
@@ -1,7 +1,7 @@
 # Creative direction
 
-The approved concept is **The Weight of Responsibility**, with a visual move from complexity to clarity. The asymmetric homepage hero gathers sixteen uneven school, invitation, message and reminder fragments against a spacious headline. The centre-right cluster carries the pressure, while selected slips crop at the edges. Later sections use calmer spacing, actual synthetic-demo product imagery, a simple responsibility diagram and the founder photograph.
+The approved concept is **The Weight of Responsibility**, with a visual move from complexity to clarity. The asymmetric homepage hero layers forty fictional incoming information fragments against a spacious headline. Email panes, newsletter pages, chat and text threads, invitations, posters, tables, forms, reminders and handwritten lists retain the visual cues of their sources. Uneven clusters carry the pressure, while older items are buried and newer messages crop at the edges. Later sections use calmer spacing, actual synthetic-demo product imagery, a simple responsibility diagram and the founder photograph.
 
-The fragments are fictional examples, not screenshots. Product captures are genuine tracked images from the Orbit demo and are labelled as such. The founder photograph retains its original framing and natural colour. There is no stock family photography, invented app screen, decorative motion or repeated feature-card grid.
+The fragments are fictional examples built with HTML and CSS, not screenshots. The collage is decorative and hidden from the accessibility reading flow. Product captures are genuine tracked images from the Orbit demo and are labelled as such. The founder photograph retains its original framing and natural colour. There is no stock family photography, decorative motion or repeated feature-card grid.
 
-Mobile is intentionally recomposed: the headline and explanation come first, then a denser twelve-fragment field. In the founder teaser, the copy sits to the left of the unchanged photograph on desktop so Ben looks into it; mobile keeps copy before the photo in reading order. The page progressively opens into calmer sections. Keep navigation, copy and actions visually clear even where fragments overlap.
+Mobile is intentionally recomposed: the headline and explanation come first, then a dense twenty-six-fragment field. In the founder teaser, the copy sits to the left of the unchanged photograph on desktop so Ben looks into it; mobile keeps copy before the photo in reading order. The page progressively opens into calmer sections. Keep navigation, copy and actions visually clear even where fragments overlap.

diff --git a/docs/review/README.md b/docs/review/README.md
@@ -9,6 +9,6 @@ Captured from the local static build in headless Chrome on 24 November 2026. Ful
 | How it works | [View](how-it-works-375.png) | [View](how-it-works-1440.png) |
 | Our story | [View](our-story-375.png) | [View](our-story-1440.png) |
 
-Focused refinement captures: [hero desktop](home-hero-1440.png), [hero mobile](home-hero-375.png), [founder desktop](home-founder-1440.png), and [founder mobile](home-founder-375.png). The homepage hero now has sixteen information fragments on desktop and twelve on mobile. Ben looks into the copy from the right on desktop.
+Focused refinement captures: [hero desktop](home-hero-1440.png), [hero mobile](home-hero-375.png), [founder desktop](home-founder-1440.png), and [founder mobile](home-founder-375.png). The homepage hero now layers forty source-specific information fragments on desktop and twenty-six on mobile. Ben looks into the copy from the right on desktop.
 
 Additional measured layouts: 390, 768 and 1024 px. No horizontal overflow or broken images at any reviewed width. Mobile menu open/close and Escape dismissal passed. Local links and assets passed `npm run check` (256 checks). See `docs/publication-checklist.md` for remaining blockers.
